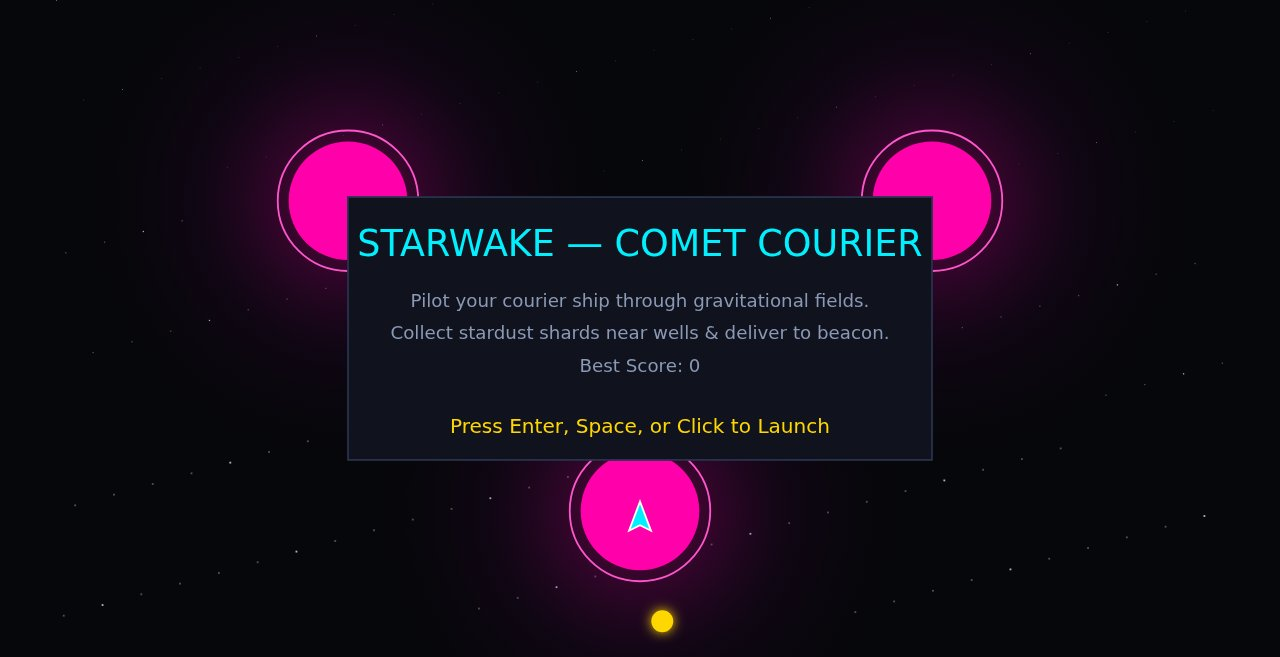
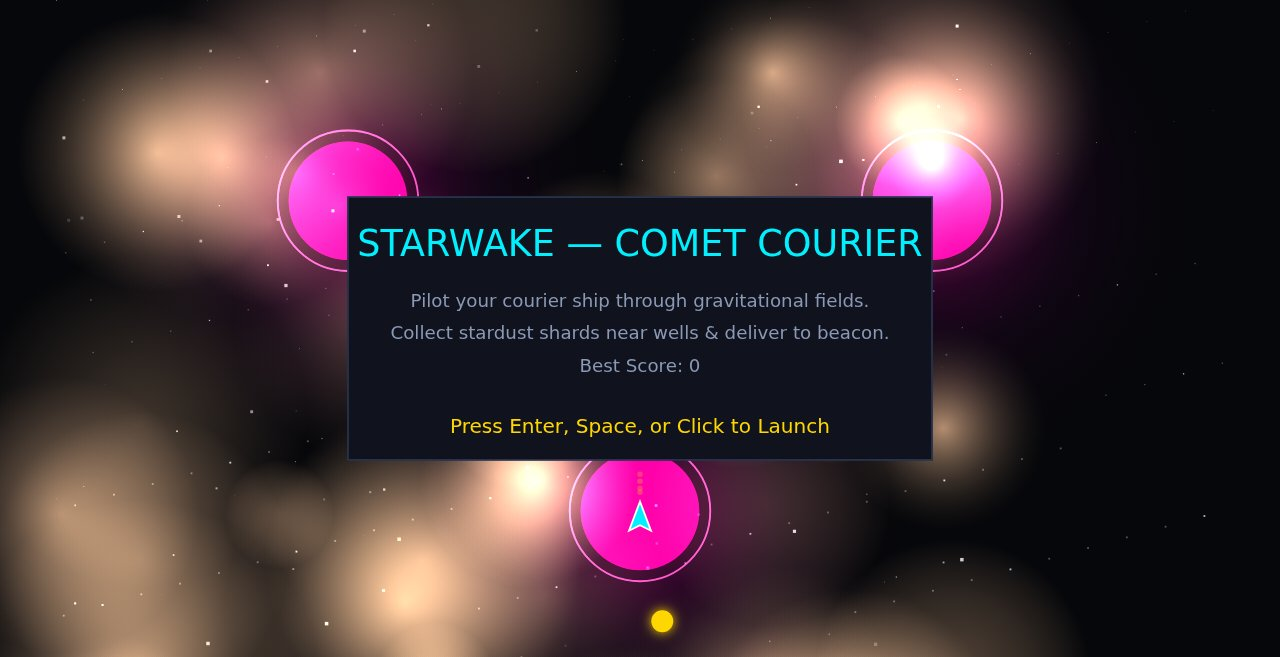
Effects layer: parallax starfield, nebula sky, exhaust trail, pickup pops; deterministic shake; audio blips; screenshots refreshed

diff --git a/game/src/effects.js b/game/src/effects.js
@@ -1,0 +1,116 @@
+"use strict";
+// deterministic effects module
+// rng is a seeded PRNG providing next() → [0,1)
+export function createEffects(rng) {
+  const stars = [];
+const particles = [];
+let lastScore = 0;
+  const nebula = [];
+  const pickups = [];
+  let shake = 0;
+  let shakeTimer = 0;
+  const maxStars = 200;
+  const maxNebula = 50;
+  for (let i = 0; i < maxStars; i++) {
+    stars.push({
+      x: rng() * 1e3,
+      y: rng() * 1e3,
+      z: rng(),
+      c: 0.1 + rng() * 0.7
+    });
+  }
+  for (let i = 0; i < maxNebula; i++) {
+    nebula.push({
+      x: rng() * 1e3,
+      y: rng() * 1e3,
+      r: 50 + rng() * 150,
+      c1: 0.15 + rng() * 0.6,
+      c2: 0.05 + rng() * 0.4
+    });
+  }
+  function update(dt, state) {
+  const { player } = state;
+  // generate exhaust particles behind player
+  for (let i = 0; i < 2; i++) {
+    particles.push({
+      x: player.x - player.vx * rng() * 5,
+      y: player.y - player.vy * rng() * 5,
+      life: 0.5
+    });
+  }
+  // update exhaust particles
+  for (let i = particles.length - 1; i >= 0; i--) {
+    const p = particles[i];
+    p.x -= player.vx * dt * 0.5;
+    p.y -= player.vy * dt * 0.5;
+    p.life -= dt;
+    if (p.life <= 0) particles.splice(i, 1);
+  }
+  pickups.forEach(p => {
+    p.y -= 30 * dt;
+    p.alpha -= dt * 0.5;
+  });
+  for (let i = pickups.length - 1; i >= 0; i--) {
+    if (pickups[i].alpha <= 0) pickups.splice(i, 1);
+  }
+  if (shake > 0) {
+    shake -= dt * 8;
+    if (shake < 0) shake = 0;
+  }
+  if (player.score > lastScore) {
+    const delta = player.score - lastScore;
+    addPop(player.x, player.y, delta);
+    lastScore = player.score;
+  }
+  }
+  function drawBackground(ctx, state) {
+    const { width, height } = ctx.canvas;
+    ctx.save();
+    ctx.globalCompositeOperation = "lighter";
+    stars.forEach(s => {
+      const size = (1 - s.z) * 2;
+      ctx.fillStyle = `rgba(255,255,255,${s.c})`;
+      ctx.fillRect(s.x - size, s.y - size, size * 2, size * 2);
+    });
+    nebula.forEach(n => {
+      const grad = ctx.createRadialGradient(n.x, n.y, 0, n.x, n.y, n.r);
+      grad.addColorStop(0, `rgba(255,200,150,${n.c1})`);
+      grad.addColorStop(1, `rgba(0,0,0,${n.c2})`);
+      ctx.fillStyle = grad;
+      ctx.fillRect(n.x - n.r, n.y - n.r, n.r * 2, n.r * 2);
+    });
+    ctx.restore();
+  }
+  function drawShipTrail(ctx, state) {
+    const { player } = state;
+    const exhaust = particles;
+    ctx.save();
+    ctx.globalAlpha = 0.4;
+    exhaust.forEach(p => {
+      ctx.fillStyle = "rgba(255,255,0,0.6)";
+      ctx.beginPath();
+      ctx.arc(p.x, p.y, 3, 0, Math.PI * 2);
+      ctx.fill();
+    });
+    ctx.restore();
+  }
+  function drawPickupPops(ctx) {
+    pickups.forEach(p => {
+      ctx.fillStyle = `rgba(255,255,0,${p.alpha})`;
+      if (ctx.fillText) ctx.fillText(`+${p.score}`, p.x, p.y);
+    });
+  }
+  function addPop(x, y, score) {
+    pickups.push({ x, y: y, score, alpha: 1 });
+  }
+function addShake(amount) {
+  shake = Math.max(shake, amount);
+}
+  function shakeOffset() {
+    if (!shake) return { x: 0, y: 0 };
+    const angle = rng() * Math.PI * 2;
+    const mag = shake * rng();
+    return { x: Math.cos(angle) * mag, y: Math.sin(angle) * mag };
+  }
+  return { update, drawBackground, drawShipTrail, drawPickupPops, addPop, addShake, shakeOffset };
+}

diff --git a/game/src/audio.js b/game/src/audio.js
@@ -1,3 +1,5 @@
+import { createRandom } from './random.js';
+const rng = createRandom(42);
 // Procedural WebAudio sound effects and master mute.
 
 let audioCtx = null;
@@ -100,7 +102,7 @@ export function playHit() {
   const buffer = audioCtx.createBuffer(1, bufferSize, audioCtx.sampleRate);
   const data = buffer.getChannelData(0);
   for (let i = 0; i < bufferSize; i++) {
-    data[i] = (Math.random() * 2 - 1) * Math.exp(-i / (audioCtx.sampleRate * 0.08));
+    data[i] = (rng() * 2 - 1) * Math.exp(-i / (audioCtx.sampleRate * 0.08));
   }
   const noise = audioCtx.createBufferSource();
   noise.buffer = buffer;
@@ -132,6 +134,41 @@ export function playDash() {
   gain.connect(masterGain);
   osc.start(now);
   osc.stop(now + 0.2);
+}
+
+export function playComboUp() {
+  unlockAudio();
+  if (!audioCtx || muted) return;
+  const now = audioCtx.currentTime;
+  const osc = audioCtx.createOscillator();
+  const gain = audioCtx.createGain();
+  osc.type = 'square';
+  osc.frequency.setValueAtTime(300, now);
+  osc.frequency.exponentialRampToValueAtTime(120, now + 0.1);
+  gain.gain.setValueAtTime(0.15, now);
+  gain.gain.exponentialRampToValueAtTime(0.001, now + 0.1);
+  osc.connect(gain);
+  gain.connect(masterGain);
+  osc.start(now);
+  osc.stop(now + 0.1);
+}
+
+export function playWaveClear() {
+  unlockAudio();
+  if (!audioCtx || muted) return;
+  const now = audioCtx.currentTime;
+  [440, 554, 659].forEach((freq, i) => {
+    const osc = audioCtx.createOscillator();
+    const gain = audioCtx.createGain();
+    osc.type = 'triangle';
+    osc.frequency.setValueAtTime(freq, now + i * 0.07);
+    gain.gain.setValueAtTime(0.12, now + i * 0.07);
+    gain.gain.exponentialRampToValueAtTime(0.001, now + i * 0.07 + 0.2);
+    osc.connect(gain);
+    gain.connect(masterGain);
+    osc.start(now + i * 0.07);
+    osc.stop(now + i * 0.07 + 0.2);
+  });
 }
 
 export function setThrust(active) {

diff --git a/game/src/render.js b/game/src/render.js
@@ -1,6 +1,8 @@
 // Drawing module for STARWAKE — Comet Courier: starfield, gravity wells, ship, asteroids, shards, beacon, HUD, and panels.
 
-import { FIELD, FONT, PALETTE, PLAYER } from './config.js';
+import { FIELD, FONT, PALETTE, PLAYER } from "./config.js";
+import { createEffects } from "./effects.js";
+import { createRandom } from "./random.js";
 
 export const SCREEN_TITLE = 'title';
 export const SCREEN_PLAY = 'play';
@@ -14,6 +16,7 @@ const PANEL = { width: 640, top: 120, line: 36, bottom: 60 };
 export function createRenderer(canvas) {
   const context = canvas.getContext('2d');
   const view = { scale: 1, x: 0, y: 0 };
+  const effects = createEffects(createRandom(20261118));
 
   // Pre-generate background stars for determinism/performance
   const stars = [];
@@ -99,6 +102,7 @@ export function createRenderer(canvas) {
   }
 
   function drawEntities(state) {
+    effects.drawBackground(context, state); effects.drawShipTrail(context, state);
     const items = state.items;
     for (let i = 0; i < items.length; i++) {
       const item = items[i];
@@ -154,6 +158,7 @@ export function createRenderer(canvas) {
       context.stroke();
       context.restore();
     }
+    effects.drawPickupPops(context);
   }
 
   function drawHud(state) {
@@ -205,10 +210,7 @@ export function createRenderer(canvas) {
 
     context.setTransform(view.scale, 0, 0, view.scale, view.x, view.y);
 
-    if (state.screenShake > 0) {
-      const shake = state.screenShake * 12;
-      context.translate((Math.random() - 0.5) * shake, (Math.random() - 0.5) * shake);
-    }
+    const so = effects.shakeOffset(); effects.update(1 / 60, state); if (so.x || so.y) { context.translate(so.x, so.y); }
 
     drawBackground(state);
     drawEntities(state);

diff --git a/main.ts b/main.ts
@@ -21,7 +21,7 @@ const here = fileURLToPath(new URL('.', import.meta.url));
 const out = process.env.MAKEFUN_OUTPUT_DIR ?? '/output';
 
 mkdirSync(out, { recursive: true });
-cpSync(join(here, 'game'), join(out, 'game'), { recursive: true });
+cpSync(join(here, 'game'), join(out, 'game'), { recursive: true, force: true });
 mkdirSync(join(out, 'screenshots'), { recursive: true });
 if (existsSync(join(here, 'screenshots'))) cpSync(join(here, 'screenshots'), join(out, 'screenshots'), { recursive: true });
 
